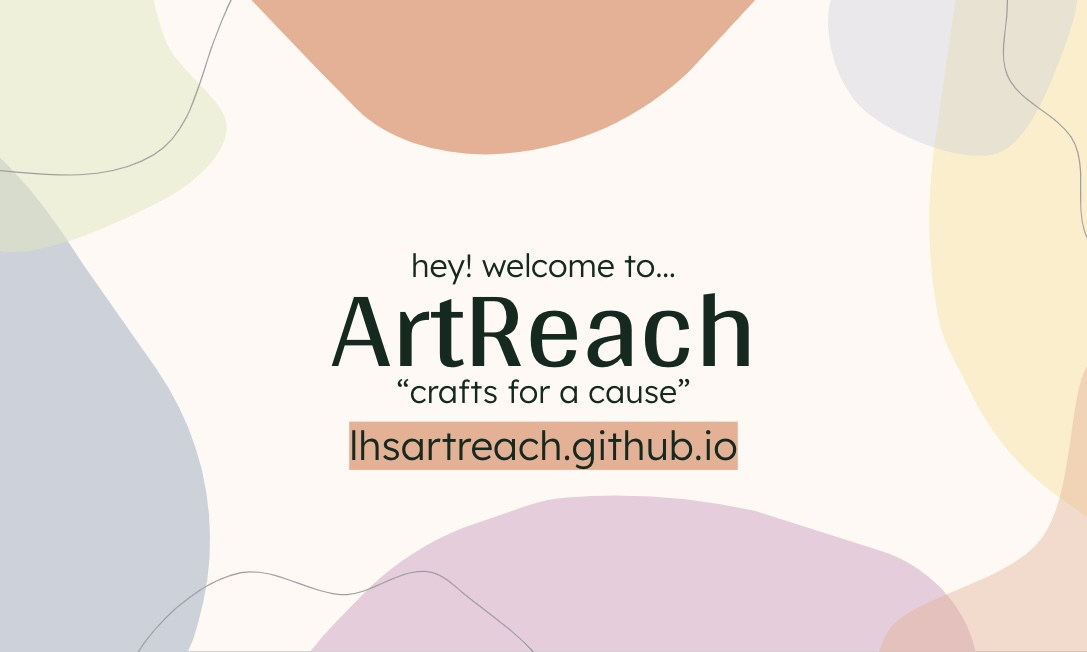
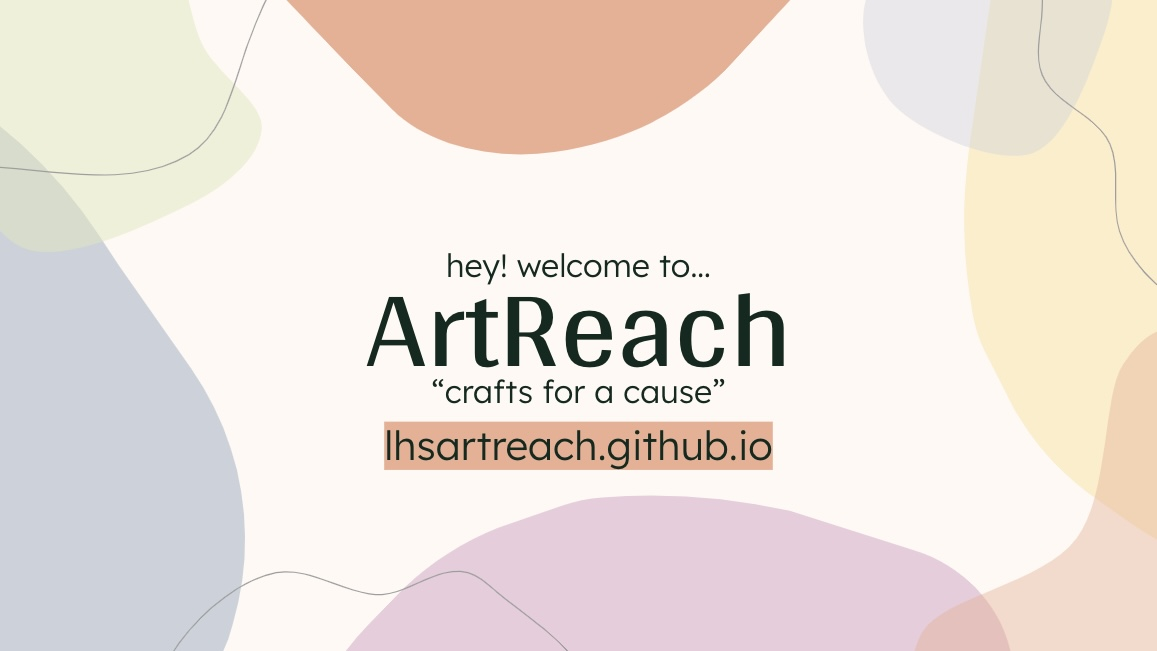
c

diff --git a/pages/presentations.html b/pages/presentations.html
@@ -49,57 +49,30 @@
             <h3 class="section-title" style="margin-bottom:50px">Presentation Archive 2022-23</h3>
             <!-- <p style="text-align:center; margin-bottom:50px; font-size:15px">Coming soon.</p> -->
         </div>
+
+        <!--images 16:9-->
         <div class="container wow">
-            <div class="presentation-item wow fadeInUp"  data-wow-delay="0.4s">
+          
+            <!-- <div class="presentation-item wow fadeInUp"  data-wow-delay="0.6s">
+              <a target="blank" href="https://docs.google.com/presentation/d/1CLdTpwERnMhDXVKSNYp_JLrjPxu_IGqGlyzG8Vz3m2Q/edit?usp=sharing">
+                <img src="../img/presentations/4.jpg">
+              </a>
+            </div>
+            <div class="presentation-item wow fadeInUp"  data-wow-delay="0.2s">
+                <a target="_blank" href="https://docs.google.com/presentation/d/1DemtmfXxlJs8rOQMelHnXOSipU3X60UqgnFOVcw1_RM/edit?usp=sharing">
+                    <img src="../img/presentations/3.jpg">
+                </a>
+            </div> -->
+            <div class="presentation-item wow fadeInUp"  data-wow-delay="0.6s">
               <a target="blank" href="https://docs.google.com/presentation/d/1CLdTpwERnMhDXVKSNYp_JLrjPxu_IGqGlyzG8Vz3m2Q/edit?usp=sharing">
                 <img src="../img/presentations/2.jpg">
               </a>
             </div>
-            <div class="presentation-item wow fadeInUp"  data-wow-delay="0.2s">
+            <div class="presentation-item wow fadeInUp"  data-wow-delay="0.3s">
                 <a target="_blank" href="https://docs.google.com/presentation/d/1ZYNKoWGEnYXkX_po0Os4rWFXOkRHrxlrUHy3xpgkTos/edit?usp=sharing">
                     <img src="../img/presentations/1.jpg">
                 </a>
             </div>
-            <!-- <div class="presentation-item wow fadeInUp"  data-wow-delay="0.2s">
-              <a href="">
-                  <img src="../img/comingSoon.jpg">
-              </a>
-            </div>
-            <div class="presentation-item wow fadeInUp"  data-wow-delay="0.6s">
-              <a href="">
-                  <img src="../img/comingSoon.jpg">
-              </a>
-            </div>
-            <div class="presentation-item wow fadeInUp"  data-wow-delay="0.3s">
-              <a href="">
-                  <img src="../img/comingSoon.jpg">
-              </a>
-            </div>
-            <div class="presentation-item wow fadeInUp"  data-wow-delay="0.4s">
-              <a href="">
-                  <img src="../img/comingSoon.jpg">
-              </a>
-            </div>
-            <div class="presentation-item wow fadeInUp"  data-wow-delay="0.2s">
-              <a href="">
-                  <img src="../img/comingSoon.jpg">
-              </a>
-            </div>
-            <div class="presentation-item wow fadeInUp"  data-wow-delay="0.6s">
-              <a href="">
-                  <img src="../img/comingSoon.jpg">
-              </a>
-            </div>
-            <div class="presentation-item wow fadeInUp"  data-wow-delay="0.3s">
-              <a href="">
-                  <img src="../img/comingSoon.jpg">
-              </a>
-            </div>
-            <div class="presentation-item wow fadeInUp"  data-wow-delay="0.6s">
-              <a href="">
-                  <img src="../img/comingSoon.jpg">
-              </a>
-            </div> -->
 
         </div>
     </section>

diff --git a/style.css b/style.css
@@ -997,7 +997,7 @@
 
 .presentation-item{
   transition:0.35s ease-in-out;
-  aspect-ratio: 5 / 3;
+  aspect-ratio: 16 / 9;
 }
 
 .presentation-item:hover{
